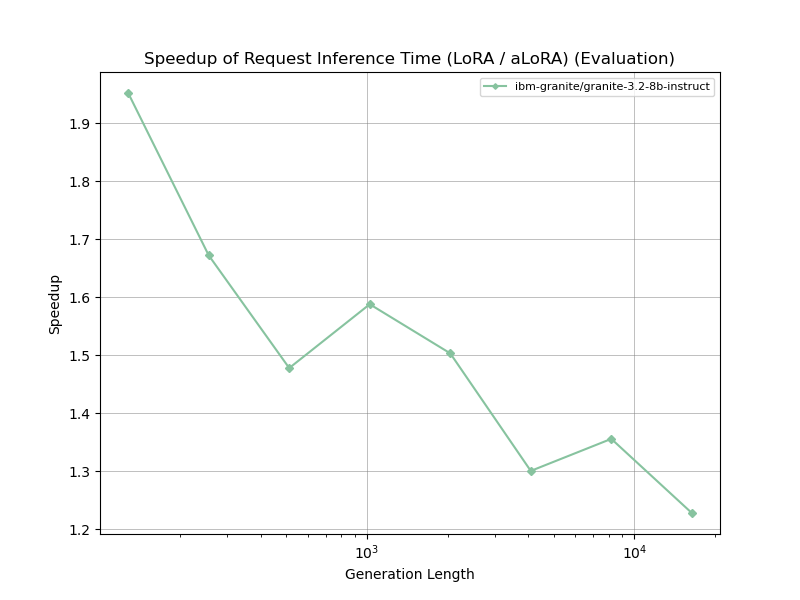
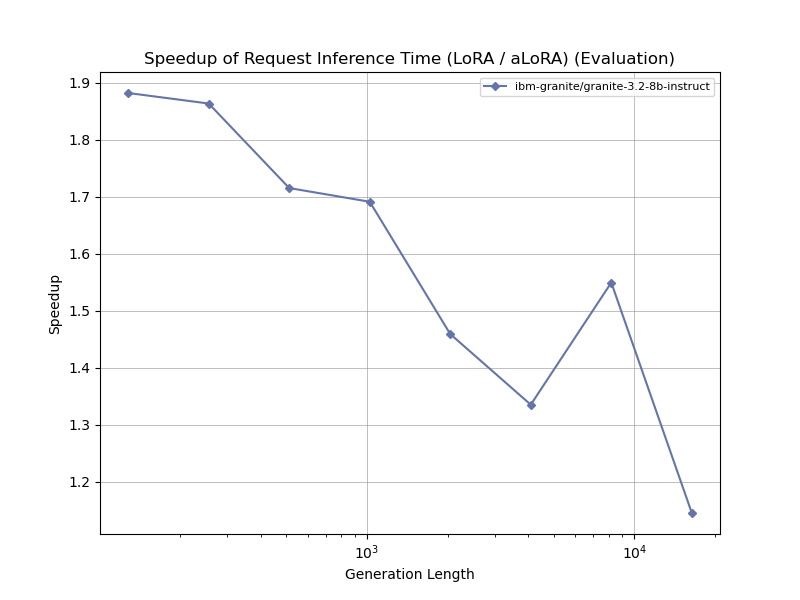
r

diff --git a/vllm/perf_eval/plots.py b/vllm/perf_eval/plots.py
@@ -5,8 +5,8 @@ prompt_lens = [128, 256, 512, 1024, 2048, 4096, 8192, 16384, 32768, 65536]
 gen_lens = [128, 256, 512, 1024, 2048, 4096, 8192, 16384]
 lambdas = [0.5, 1, 5, 10, 50, 100, 500, 1000, 5000, 10000, 20000, 50000]
 
-component = "eval"
-# component = "gen_1"
+# component = "eval"
+component = "gen_1"
 # component = "gen_2"
 # component = "gen+eval"
 
